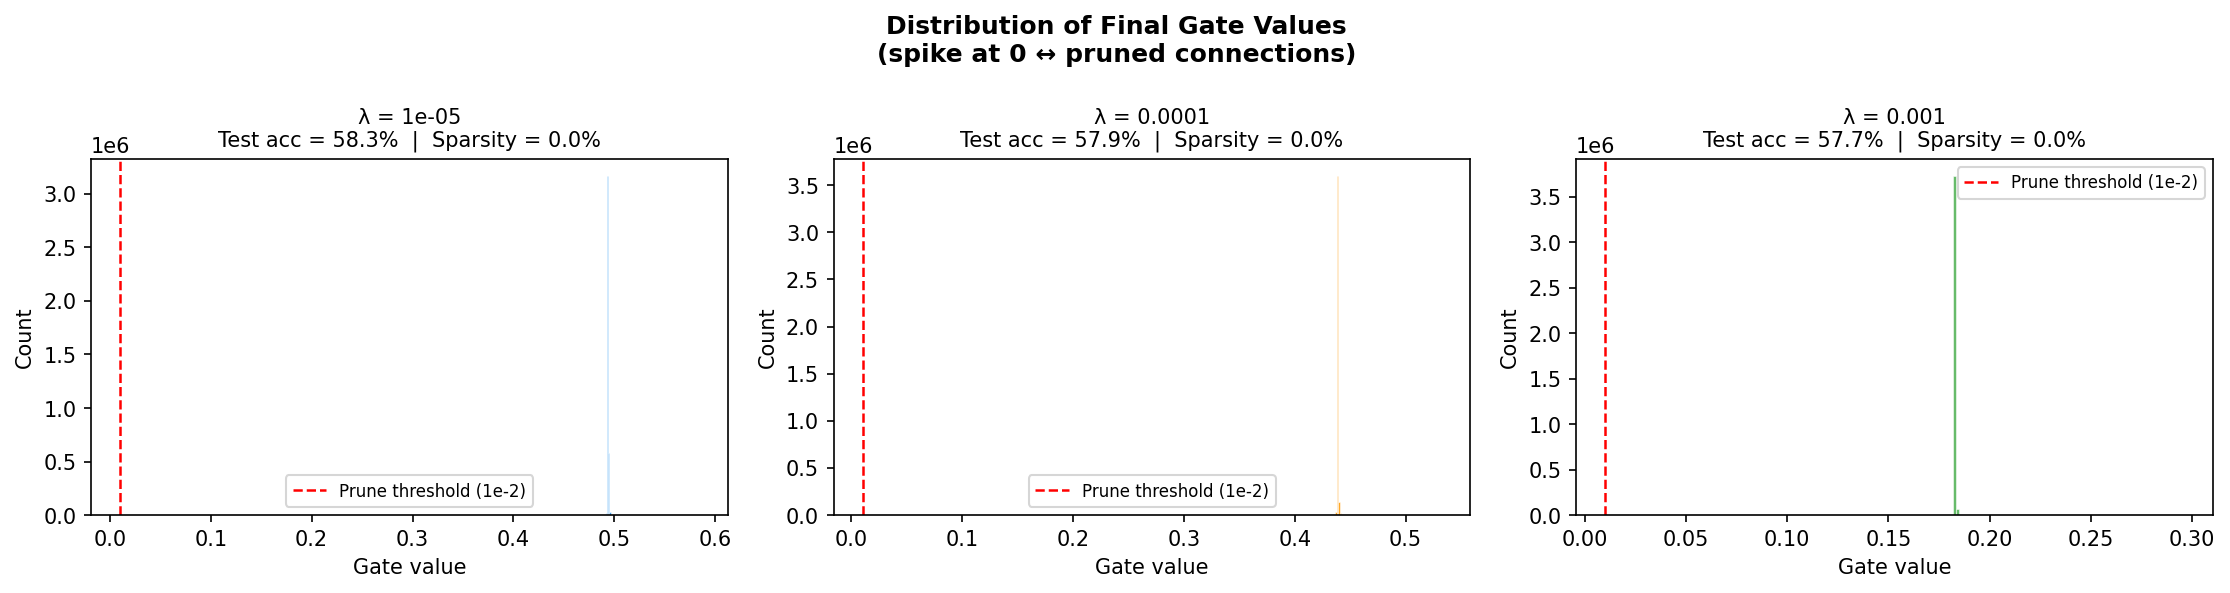
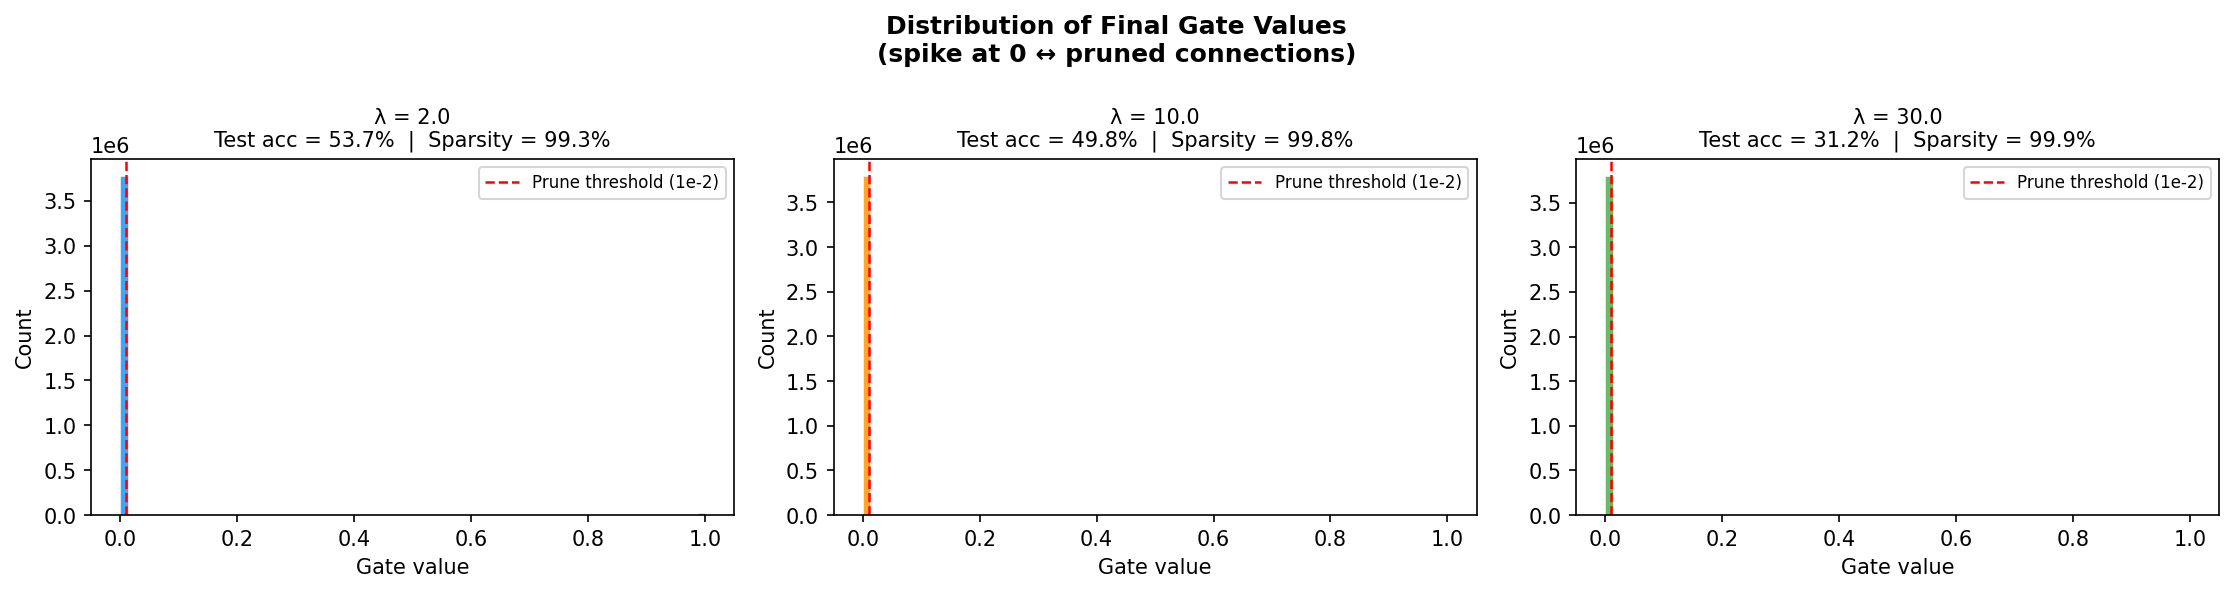
Fix sparsity - correct gate initialization and optimizer

diff --git a/self_pruning_nn.py b/self_pruning_nn.py
@@ -75,7 +75,7 @@ class PrunableLinear(nn.Module):
             nn.init.uniform_(self.bias, -bound, bound)
 
         # Small positive init so gates start slightly above 0.5
-        nn.init.constant_(self.gate_scores, 0.1)
+        nn.init.constant_(self.gate_scores, -1.0)
 
     def forward(self, x: torch.Tensor) -> torch.Tensor:
         # Step 1: turn gate_scores into values in (0, 1)
@@ -169,7 +169,7 @@ class SelfPruningNet(nn.Module):
         total = torch.tensor(0.0, device=next(self.parameters()).device)
         for layer in self.prunable_layers():
             gates = torch.sigmoid(layer.gate_scores)   # keep in computation graph
-            total = total + gates.abs().sum()
+            total = total + gates.abs().mean()
         return total
 
     def overall_sparsity(self, threshold: float = 1e-2) -> float:
@@ -289,7 +289,12 @@ def train_and_evaluate(lam: float,
     model = SelfPruningNet(dropout=0.3).to(device)
 
     # Adam updates both weights and gate_scores simultaneously
-    optimizer = optim.Adam(model.parameters(), lr=lr, weight_decay=1e-4)
+    gate_params   = [p for n, p in model.named_parameters() if 'gate_scores' in n]
+    weight_params = [p for n, p in model.named_parameters() if 'gate_scores' not in n]
+    optimizer = optim.Adam([
+        {'params': weight_params, 'lr': lr,        'weight_decay': 1e-4},
+        {'params': gate_params,   'lr': lr * 50},
+    ])
 
     # Cosine annealing smoothly decays lr to near-zero
     scheduler = optim.lr_scheduler.CosineAnnealingLR(optimizer, T_max=epochs)
@@ -404,8 +409,8 @@ def plot_training_curves(results: list, save_path: str = "training_curves.png"):
 
 def main():
     # ── Config ────────────────────────────────────────────────────────────────
-    LAMBDAS    = [1e-5, 1e-4, 1e-3]   # low / medium / high sparsity pressure
-    EPOCHS     = 40
+    LAMBDAS    = [2.0, 10.0, 30.0]   # low / medium / high sparsity pressure
+    EPOCHS     = 50
     BATCH_SIZE = 256
     LR         = 3e-3
 
